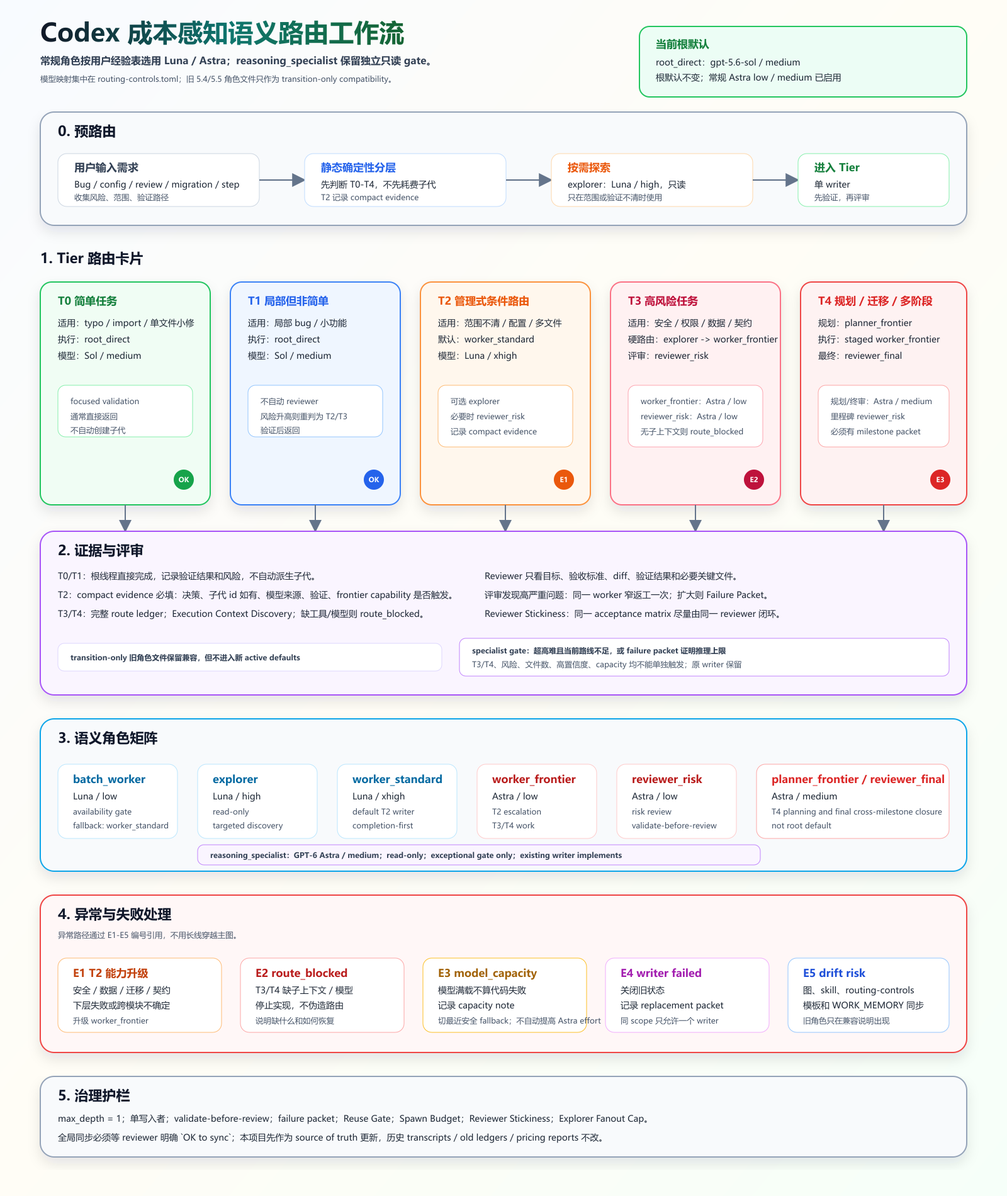
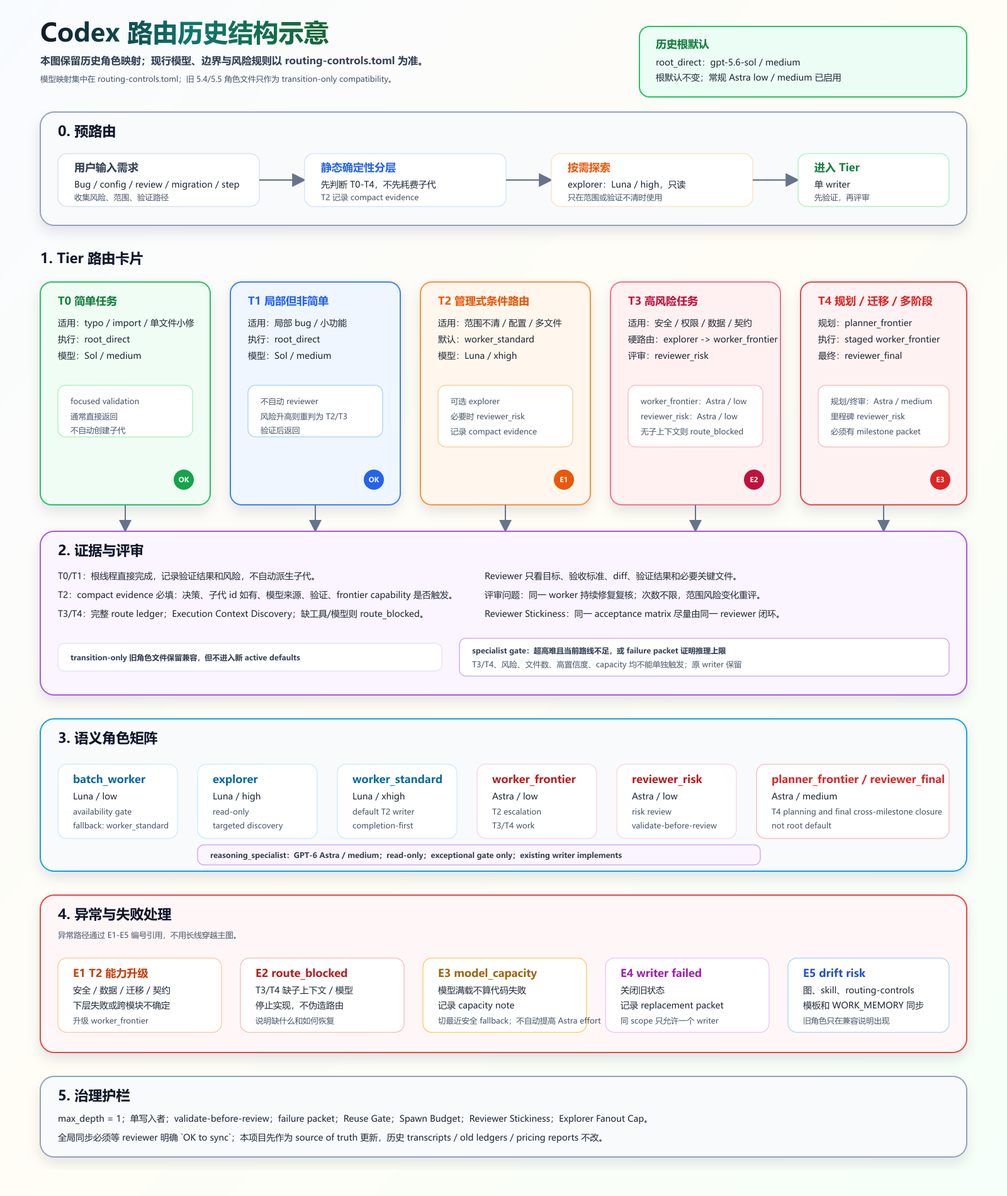
Remove count-based routing stop limits

Changed region(s): [[0.0312, 0.0, 0.4062, 0.0621]]

diff --git a/codex-home/skills/codex-workflow/scripts/test_select_route.py b/codex-home/skills/codex-workflow/scripts/test_select_route.py
@@ -1,4 +1,4 @@
-"""Regression scenarios for capability, effort, governance and stop boundaries."""
+"""Regression scenarios for capability, effort, governance and continuation boundaries."""
 import unittest
 from select_route import load_policy, select, check_policy, DEFAULT_CONTROLS
 
@@ -31,11 +31,11 @@ class RouteScenarios(unittest.TestCase):
             ("ordinary_defect", {"tier": "T2", "failure": "validation_defect", "previous_profile": "sol_medium", "evidence": "Known off-by-one in index"}, "sol_medium", "T2", "repair_first"),
             ("missing_failure_evidence", {"tier": "T2", "failure": "effort_limit", "previous_profile": "sol_medium"}, "sol_low", "T2", "needs_evidence"),
             ("missing_actual_profile", {"tier": "T2", "failure": "effort_limit", "evidence": "Missed constraint"}, "sol_low", "T2", "needs_evidence"),
-            ("transition_budget", {"tier": "T2", "failure": "effort_limit", "previous_profile": "sol_high", "evidence": "Named insufficiency", "transitions_used": 2}, "sol_high", "T2", "budget_exhausted"),
-            ("writer_budget", {"tier": "T2", "writer_attempts_used": 3}, "sol_low", "T2", "budget_exhausted"),
-            ("astra_stop", {"tier": "T3", "failure": "capability_limit", "previous_profile": "astra_medium", "evidence": "Assigned model cannot resolve coupled proof"}, "astra_medium", "T3", "stop"),
+            ("transition_past_old_limit", {"tier": "T2", "failure": "effort_limit", "previous_profile": "sol_high", "evidence": "Named insufficiency", "transitions_used": 2}, "astra_medium", "T2", "advice_only"),
+            ("writer_past_old_limit", {"tier": "T2", "writer_attempts_used": 3}, "sol_low", "T2", "advice_only"),
+            ("astra_stop", {"tier": "T3", "failure": "capability_limit", "previous_profile": "astra_medium", "evidence": "Assigned model cannot resolve coupled proof"}, "astra_medium", "T3", "replan_required"),
             ("astra_effort", {"tier": "T3", "failure": "effort_limit", "previous_profile": "astra_medium", "evidence": "Medium missed a demonstrated constraint"}, "astra_high", "T3", "advice_only"),
-            ("batch_scope", {"role": "batch", "trivial_execution": True, "execution_evidence": "Exact substitutions supplied", "failure": "capability_limit", "previous_profile": "luna_medium", "evidence": "Work is no longer mechanical"}, "luna_medium", "T1", "stop"),
+            ("batch_scope", {"role": "batch", "trivial_execution": True, "execution_evidence": "Exact substitutions supplied", "failure": "capability_limit", "previous_profile": "luna_medium", "evidence": "Work is no longer mechanical"}, "luna_medium", "T1", "replan_required"),
         ]
         for name, task, profile, tier, status in cases:
             with self.subTest(name=name):
@@ -64,7 +64,7 @@ class RouteScenarios(unittest.TestCase):
                             self.assertEqual(result["profile"], "astra_high")
                 stopped = select({"tier": tier, "role": role, "failure": "effort_limit",
                                   "previous_profile": "astra_high", "evidence": "High missed proof"}, self.policy)
-                self.assertEqual(stopped["status"], "stop")
+                self.assertEqual(stopped["status"], "replan_required")
 
     def test_luna_requires_explicit_deterministic_execution_evidence(self):
         eligible = {"tier": "T0", "trivial_execution": True,
@@ -100,11 +100,37 @@ class RouteScenarios(unittest.TestCase):
             with self.subTest(task=task), self.assertRaises(ValueError):
                 select(task, self.policy)
 
-    def test_confidence_and_budget_accounting(self):
+    def test_confidence_and_observational_counts(self):
         result = select({"tier": "T2", "high_confidence": True, "transitions_used": 1, "writer_attempts_used": 2}, self.policy)
         self.assertTrue(result["review_required"])
-        self.assertEqual(result["remaining_automatic_transitions"], 1)
-        self.assertEqual(result["remaining_writer_attempts"], 1)
+        self.assertIsNone(result["remaining_automatic_transitions"])
+        self.assertIsNone(result["remaining_writer_attempts"])
+        self.assertEqual(result["attempt_limit_policy"], "unlimited_counts_evidence_required")
+        self.assertEqual((result["transitions_used"], result["writer_attempts_used"]), (1, 2))
+
+
+    def test_counts_never_block_completion_or_bypass_risk_gates(self):
+        scenarios = [
+            ({"tier": "T2", "complexity": "integrated"}, "sol_medium", "advice_only"),
+            ({"failure": "effort_limit", "previous_profile": "sol_high", "evidence": "Named missed derivation"}, "astra_medium", "advice_only"),
+            ({"failure": "validation_defect", "previous_profile": "sol_medium", "evidence": "Known wrong index"}, "sol_medium", "repair_first"),
+            ({"failure": "effort_limit", "previous_profile": "sol_medium"}, "sol_low", "needs_evidence"),
+            ({"critical_risk": True, "failure": "environment", "previous_profile": "sol_low", "evidence": "Tool not launched"}, "astra_low", "repair_first"),
+            ({"tier": "T3", "failure": "effort_limit", "previous_profile": "astra_high", "evidence": "High missed proof"}, "astra_high", "replan_required"),
+            ({"tier": "T3", "failure": "capability_limit", "previous_profile": "astra_medium", "evidence": "Assigned model could not solve proof"}, "astra_medium", "replan_required"),
+            ({"role": "planner"}, "astra_high", "advice_only"),
+            ({"role": "final"}, "astra_high", "advice_only"),
+        ]
+        for count in (3, 4, 100, 10**30):
+            for task, profile, status in scenarios:
+                with self.subTest(count=count, task=task):
+                    result = select({**task, "writer_attempts_used": count, "transitions_used": count}, self.policy)
+                    self.assertEqual((result["profile"], result["status"]), (profile, status))
+                    self.assertIsNone(result["remaining_writer_attempts"])
+                    self.assertIsNone(result["remaining_automatic_transitions"])
+                    self.assertEqual(result["writer_attempts_used"], count)
+                    self.assertFalse(result["route_executed"])
+                    self.assertEqual(result["specialist_gate"], "not_evaluated_not_authorized")
 
 
 if __name__ == "__main__":

diff --git a/codex-home/skills/codex-workflow/scripts/select_route.py b/codex-home/skills/codex-workflow/scripts/select_route.py
@@ -115,21 +115,19 @@ def select(task, policy):
             reasons.append("No reasoning escalation for context, instruction, tool, environment or a diagnosed ordinary defect")
         elif previous is None:
             status, action = "needs_evidence", "record_actual_previous_profile"
-        elif task.get("transitions_used", 0) >= adaptation["max_automatic_transitions"] or (role == "worker" and task.get("writer_attempts_used", 0) >= adaptation["max_total_writer_attempts_per_acceptance"]):
-            profile = previous
-            status, action = "budget_exhausted", "preserve_progress_and_return_failure_packet"
         elif role == "batch":
             profile = previous
-            status, action = "stop", "reclassify_batch_scope_before_nonmechanical_work"
+            status, action = "replan_required", "reclassify_batch_scope_before_nonmechanical_work"
         else:
             if failure == "effort_limit":
-                next_profile = adaptation.get(previous + "_effort_next", "stop_and_handoff")
+                next_profile = adaptation.get(previous + "_effort_next", "diagnose_and_replan")
             else:
                 family = previous.split("_", 1)[0]
                 next_profile = adaptation[family + "_capability_next"]
             if next_profile not in profiles:
                 profile = previous
-                status, action = "stop", next_profile
+                status, action = "replan_required", next_profile
+                reasons.append("Diagnose and change the approach before retrying; preserve model/effort floors and specialist gate")
             else:
                 profile = next_profile
                 reasons.append(f"Evidence-backed {failure}: {previous} -> {profile}")
@@ -161,8 +159,6 @@ def select(task, policy):
     chosen = profiles[profile]
     registered = policy["model_roles"].get(semantic, policy["root_default"])
     matches = all(chosen[key] == registered[key] for key in ("model", "model_reasoning_effort"))
-    if role in ("worker", "batch") and task.get("writer_attempts_used", 0) >= adaptation["max_total_writer_attempts_per_acceptance"] and status not in ("needs_evidence", "budget_exhausted", "stop"):
-        status, action = "budget_exhausted", "preserve_progress_and_return_failure_packet"
     if task.get("high_confidence", False):
         reasons.append("High confidence strengthens acceptance/validation/review; no automatic model promotion")
     if not reasons:
@@ -174,8 +170,11 @@ def select(task, policy):
             "boundary_roles": ["planner_frontier", "reviewer_final"],
             "luna_eligible": bool(luna_eligible),
             "review_required": role in ("worker", "batch"),
-            "remaining_automatic_transitions": max(0, adaptation["max_automatic_transitions"] - task.get("transitions_used", 0)),
-            "remaining_writer_attempts": max(0, adaptation["max_total_writer_attempts_per_acceptance"] - task.get("writer_attempts_used", 0)),
+            "remaining_automatic_transitions": None,
+            "remaining_writer_attempts": None,
+            "attempt_limit_policy": "unlimited_counts_evidence_required",
+            "transitions_used": task.get("transitions_used", 0),
+            "writer_attempts_used": task.get("writer_attempts_used", 0),
             "specialist_gate": "not_evaluated_not_authorized",
             "invocation": "actual_root_profile_check" if semantic == "root_direct" else ("registered_role_after_actual_mapping_check" if matches else "default_child_explicit_model_effort_and_full_role_instructions"),
             "availability": "unverified", "route_executed": False}

diff --git a/codex-home/skills/codex-workflow/references/two-axis-routing.md b/codex-home/skills/codex-workflow/references/two-axis-routing.md
@@ -1,6 +1,6 @@
-# Model and effort selection — 2026-10-07
+# Model and effort selection — 2026-10-15
 
-Authority: routing-controls.toml, policy 2026-10-07-sol-default-astra-high-boundaries-v2.
+Authority: routing-controls.toml, policy 2026-10-15-completion-without-attempt-caps-v3.
 Policy heuristics are not measured quality guarantees. Tier, model and effort remain separate.
 
 ## Resolve routing configuration paths first
@@ -29,9 +29,9 @@ Planner, writer and final reviewer stay distinct; root may implement T0/T1. Defa
 
 Context, instructions, tool, environment, capacity and diagnosed ordinary defects require cause repair or recorded safe fallback without automatic reasoning escalation. No automatic Terra fallback; retained Terra files are historical inactive profiles. Luna outage/unsuitability goes to Sol low or above. Boundary capacity retains Astra high or stops.
 
-Effort transitions: Sol low → medium → high → Astra medium; Astra implementation low → medium → high → stop, with evidence. Luna reasoning insufficiency means its trivial lane is exceeded: reclassify to Sol medium. Capability transitions: Luna → Sol medium; Sol → Astra medium; Astra → stop or evaluate separate specialist gate. Final boundary floor is reapplied after every initial override, failure, repair, previous-profile restoration or stop path; boundary Astra high effort failure stops with handoff rather than automatic xhigh.
+Effort transitions: Sol low → medium → high → Astra medium; Astra implementation low → medium → high → diagnose and replan, with evidence. Luna reasoning insufficiency means its trivial lane is exceeded: reclassify to Sol medium. Capability transitions: Luna → Sol medium; Sol → Astra medium; Astra → diagnose/replan or evaluate separate specialist gate. Final boundary floor is reapplied after every initial override, failure, repair, previous-profile restoration or stop path; boundary Astra high effort failure requires diagnosis and replan while retaining the high floor; no automatic xhigh.
 
-Allow at most two automatic transitions and three total writer attempts per acceptance matrix, including ordinary repairs. One initial attempt per profile and at most one narrow reviewer rework pass. Preserve single writer and record replacement evidence. Budget exhaustion stops new work with a failure packet. xhigh/max/ultra requires explicit request and runtime support. Specialist remains bounded, read-only and separately gated; boundary high never opens that gate.
+Writer attempts, rework, review rounds and automatic profile transitions have no numeric cap. Preserve single writer and record replacement evidence. Counts are observational; continue evidence-backed repair and independent review until acceptance. Persistent failure requires diagnosis and a changed approach, not blind repetition. Re-score scope/risk changes. At the automatic ceiling, replan; only a real blocker (missing required capability/isolation or no feasible authorized approach) stops work with a packet. xhigh/max/ultra requires explicit request and runtime support. Specialist remains bounded, read-only and separately gated; boundary high never opens that gate.
 
 ## Read-only selector
 
@@ -48,9 +48,9 @@ scripts/select_route.py reads evidence-backed JSON and returns advice only; it d
 | evidence | Named reasoning/capability evidence or failure diagnosis |
 | failure | none/context/instructions/tool/environment/capacity/validation_defect/effort_limit/capability_limit |
 | previous_profile | Actual profile; only with failure |
-| transitions_used/writer_attempts_used | Nonnegative counts across the acceptance matrix |
+| transitions_used/writer_attempts_used | Nonnegative observational counts across the acceptance matrix; no limit |
 
-Unknown fields, string booleans, invalid tiers and extreme-effort requests are rejected. Stop/needs_evidence/budget_exhausted prohibit dispatch; repair_first requires repair/fallback first. Advice always includes route_executed=false, availability=unverified and specialist_gate=not_evaluated_not_authorized.
+Unknown fields, string booleans, invalid tiers and extreme-effort requests are rejected. needs_evidence prohibits dispatch until the packet is complete; repair_first requires repair/fallback first; replan_required requires diagnosis and a changed feasible approach before retrying, without automatic extreme effort or an ungated specialist. Counts never emit budget_exhausted. remaining_automatic_transitions and remaining_writer_attempts are null with attempt_limit_policy=unlimited_counts_evidence_required, not zero remaining. Advice always includes route_executed=false, availability=unverified and specialist_gate=not_evaluated_not_authorized.
 
 ```powershell
 $routePython = Join-Path $env:USERPROFILE '.cache/codex-runtimes/codex-primary-runtime/dependencies/python/python.exe'

diff --git a/codex-home/skills/codex-workflow/SKILL.md b/codex-home/skills/codex-workflow/SKILL.md
@@ -41,10 +41,10 @@ Read `references/two-axis-routing.md` when model/effort selection or adaptation 
 - Choose workflow tier by consequences and governance, model by semantic capability, and effort by reasoning density. File count and a request for confidence alone do not force a model upgrade.
 - Use Sol medium for integrated T2 work; Sol high for named dense reasoning or demonstrated medium reasoning insufficiency. Use Astra low for frontier defaults and medium for named dense/coupled reasoning; Astra high is mandatory for initial planning/final review; implementation or specialist high requires documented medium inadequacy.
 - Diagnose failures first. Repair missing context, instructions, tools, environment and known ordinary defects; capacity follows availability fallback. None of these alone justifies increasing effort or invoking a specialist.
-- Effort limit: one next-effort attempt with evidence. Capability limit: direct model promotion with evidence. Sol medium -> high -> Astra medium is an effort path; Luna -> Sol medium -> Astra medium is a capability path, not a mandatory ladder.
-- Permit at most two automatic transitions and three total writer attempts per acceptance matrix, including ordinary repairs. One initial attempt per selected profile plus the separately bounded narrow rework pass; stop with a packet when the applicable budget is exhausted.
+- Effort limit: select the next justified effort with evidence. Capability limit: direct model promotion with evidence. Sol medium -> high -> Astra medium is an effort path; Luna -> Sol medium -> Astra medium is a capability path, not a mandatory ladder.
+- Writer attempts, rework, review rounds and automatic profile transitions have no numeric completion cap. Keep counts as observations and continue evidence-backed repairs and independent review until acceptance. Diagnose persistent failure and change the approach instead of blindly repeating; re-score changes in scope or risk. At the automatic effort/capability ceiling, replan without unauthorized extreme effort or an ungated specialist. A real blocker (missing required capability/isolation or no feasible authorized approach) still requires a failure/continuation packet.
 - Keep independent roles, single writer, validation-before-review and specialist gate intact. A non-default profile must use an explicit mapped default child if the registered role does not match; copy full role instructions and inspect actual isolation. Do not pretend the root model switched.
-- Record actual profile, failure diagnosis, transition reason, budget, acceptance and observed usage. After five comparable accepted runs without substantive rework, consider one lower effort within the Sol low and boundary Astra high floors on a future independent task with identical checks; restore on regression. No automatic global rewrite.
+- Record actual profile, failure diagnosis, transition reason, observed attempt counts, acceptance and observed usage. After five comparable accepted runs without substantive rework, consider one lower effort within the Sol low and boundary Astra high floors on a future independent task with identical checks; restore on regression. No automatic global rewrite.
 
 ## Active Semantic Roles
 

diff --git a/codex-home/skills/codex-workflow/CODEX_WORKFLOW.md b/codex-home/skills/codex-workflow/CODEX_WORKFLOW.md
@@ -44,10 +44,10 @@ Read `references/two-axis-routing.md` when model/effort selection or adaptation 
 - Choose workflow tier by consequences and governance, model by semantic capability, and effort by reasoning density. File count and a request for confidence alone do not force a model upgrade.
 - Use Sol medium for integrated T2 work; Sol high for named dense reasoning or demonstrated medium reasoning insufficiency. Use Astra low for frontier defaults and medium for named dense/coupled reasoning; Astra high is mandatory for initial planning/final review; implementation or specialist high requires documented medium inadequacy.
 - Diagnose failures first. Repair missing context, instructions, tools, environment and known ordinary defects; capacity follows availability fallback. None of these alone justifies increasing effort or invoking a specialist.
-- Effort limit: one next-effort attempt with evidence. Capability limit: direct model promotion with evidence. Sol medium -> high -> Astra medium is an effort path; Luna -> Sol medium -> Astra medium is a capability path, not a mandatory ladder.
-- Permit at most two automatic transitions and three total writer attempts per acceptance matrix, including ordinary repairs. One initial attempt per selected profile plus the separately bounded narrow rework pass; stop with a packet when the applicable budget is exhausted.
+- Effort limit: select the next justified effort with evidence. Capability limit: direct model promotion with evidence. Sol medium -> high -> Astra medium is an effort path; Luna -> Sol medium -> Astra medium is a capability path, not a mandatory ladder.
+- Writer attempts, rework, review rounds and automatic profile transitions have no numeric completion cap. Keep counts as observations and continue evidence-backed repairs and independent review until acceptance. Diagnose persistent failure and change the approach instead of blindly repeating; re-score changes in scope or risk. At the automatic effort/capability ceiling, replan without unauthorized extreme effort or an ungated specialist. A real blocker (missing required capability/isolation or no feasible authorized approach) still requires a failure/continuation packet.
 - Keep independent roles, single writer, validation-before-review and specialist gate intact. A non-default profile must use an explicit mapped default child if the registered role does not match; copy full role instructions and inspect actual isolation. Do not pretend the root model switched.
-- Record actual profile, failure diagnosis, transition reason, budget, acceptance and observed usage. After five comparable accepted runs without substantive rework, consider one lower effort within the Sol low and boundary Astra high floors on a future independent task with identical checks; restore on regression. No automatic global rewrite.
+- Record actual profile, failure diagnosis, transition reason, observed attempt counts, acceptance and observed usage. After five comparable accepted runs without substantive rework, consider one lower effort within the Sol low and boundary Astra high floors on a future independent task with identical checks; restore on regression. No automatic global rewrite.
 
 ## Semantic Role Matrix
 

diff --git a/AGENTS.md b/AGENTS.md
@@ -6,4 +6,4 @@
 4. Do not store secrets, tokens, account credentials, private keys, or machine-local auth material in this project. Config templates may include paths, model names, roles, and workflow rules only.
 5. When changing routing behavior, update both the runnable skill/template files and the work memory that explains why the rule exists. This prevents global Codex behavior from drifting away from the project record.
 6. Voice reply behavior is owned by the separate voice automation project (machine-local location is recorded in ignored `WORK_MEMORY.md`). This project may reference that history, but it should not become the place where TTS helper scripts or voice profiles are maintained.
-7. Follow routing-controls.toml: default GPT-6.1 Sol low or above; Luna medium only for evidenced trivial deterministic execution without substantive reasoning. Every T0–T4 task requires independent initial Astra high planning and final Astra high review, without a trivial exception. Boundaries do not force T4. Preserve single writer, validation first, adaptation budgets, implementation high evidence and the separate reasoning_specialist gate.
+7. Follow routing-controls.toml: default GPT-6.1 Sol low or above; Luna medium only for evidenced trivial deterministic execution without substantive reasoning. Every T0–T4 task requires independent initial Astra high planning and final Astra high review, without a trivial exception. Boundaries do not force T4. Preserve single writer, validation first, evidence-backed continuation without numeric attempt/rework/review caps, implementation high evidence and the separate reasoning_specialist gate.

diff --git a/codex-home/AGENTS.md b/codex-home/AGENTS.md
@@ -6,7 +6,7 @@
 - 模型按语义能力与后果选择；推理档位按密集约束和不足证据选择。默认 GPT-6.1 Sol/low 及以上；Luna 仅 medium，且须有特别简单、规则完全确定、无需实质思考的执行证据。初始规划与最终审核固定 Astra/high 起；实施和专家的 Astra/high 仍需 medium 不足证据。
 - 使用 `[execution_profiles]` 选择实际配置，`agents/*.toml` 是角色默认值；非默认档位需显式指定并核对运行时绑定，不能声称主聊天模型自动切换。
 - 失败先区分资料、指令、工具、环境、容量、普通缺陷、推理投入不足与模型能力不足。只有有证据的后两类触发相应自动调整；专家仍有单独门槛。
-- 同一验收范围最多两次自动配置转换、三次写入尝试；普通返工也计入总数，超过预算保留成果并交接。
+- 写入尝试、返工、审查轮次及自动配置转换不设次数上限；计数仅用于观测，持续依据失败证据修复和复核直到验收完成。禁止盲目重复，范围或风险变化须重评；只有真实阻塞才保留成果并交接。
 - 高风险路由不得悄悄降低模型能力或省略独立审查；必要能力不可用则报告 route_blocked。
 - 全局根模型默认来自 config.toml，但记录当前会话实际模型；自定义路由键只保留在 routing-controls.toml。
 - 路由选择器是只读建议工具；由主代理检查模型可用性和权限后派发代理，记录真实执行证据。

diff --git a/模型档位与路由方法说明.md b/模型档位与路由方法说明.md
@@ -43,7 +43,7 @@
 
 资料、指令、工具、环境、容量及已定位普通缺陷先修复原因，不自动加大推理投入。Sol 推理不足按证据 low → medium → high → Astra medium；能力不足可直接换模型，无需逐档尝试。Luna 需要思考时应重新分类为 Sol 任务。
 
-同一验收范围最多两次自动转换、三次写入尝试，普通返工也计入预算。达到上限保留成果和失败交接包。规划与最终审核在所有初始选择、失败、修复、容量和停止路径之后都保持 Astra/high 下限。Astra/high 不足时停止交接，不自动使用 xhigh。
+写入尝试、返工、审查轮次和自动转换不设次数上限，计数仅用于观测。持续按失败证据修复并复核直到验收完成；禁止盲目重复，范围或风险变化须重评，真实阻塞仍保留成果和失败交接包。规划与最终审核在所有初始选择、失败、修复、容量和停止路径之后都保持 Astra/high 下限。Astra/high 不足时诊断并重规划，不自动使用 xhigh；必需能力缺失或无可行的已授权方案才报告阻塞。
 
 五次可比成功后可在后续独立任务尝试低一档，但不能低于 Sol/low 或规划、最终审核 Astra/high，也不能绕过 Luna 条件。模型更强不等于测试已通过；最终审核必须对照真实修改、验收条件和验证证据。
 

diff --git a/codex-home/skills/codex-workflow/references/model-selection-evidence-2026-09.md b/codex-home/skills/codex-workflow/references/model-selection-evidence-2026-09.md
@@ -65,4 +65,4 @@ These are public direct-API rates, not Codex credits. Cached input may be much c
 
 ## Two-axis policy adoption (2026-10-03)
 
-Use `two-axis-routing.md` and routing-controls.toml for the active model/effort transition and budget policy. Sol medium is the integrated-work baseline; high requires named dense reasoning or a demonstrated effort limit. Astra low remains a frontier baseline, with medium selected for evidenced dense/coupled reasoning. Do not use historical scores above to claim Sol high beats Astra low or that equal effort labels imply equal compute. The policy's two-transition, three-writer-attempt and five-observation thresholds are local heuristics, not published benchmark results.
+Use `two-axis-routing.md` and routing-controls.toml for the active model/effort transition and evidence-backed continuation policy. Sol medium is the integrated-work baseline; high requires named dense reasoning or a demonstrated effort limit. Astra low remains a frontier baseline, with medium selected for evidenced dense/coupled reasoning. Do not use historical scores above to claim Sol high beats Astra low or that equal effort labels imply equal compute. Writer, rework, review and transition counts are now observational without a completion cap. The five-observation feedback threshold is a local heuristic, not a published benchmark result.

diff --git a/codex-home/templates/route-ledger.md b/codex-home/templates/route-ledger.md
@@ -173,7 +173,7 @@ Only reasoning_specialist requires this gate; approved routine Astra low/medium 
 - reviewer stickiness applied: yes/no
 - reviewer role: reviewer_risk / reviewer_final / transition-only legacy / none
 - new reviewer spawn_reason:
-- max reviewers per acceptance_matrix_id without expansion: 1
+- max reviewers per acceptance_matrix_id without expansion: 2
 - reviewer findings:
 - severity:
 - rework decision:
@@ -226,9 +226,11 @@ Only reasoning_specialist requires this gate; approved routine Astra low/medium 
 - expected vs registered actual mapping / explicit override:
 - failure class / identified cause / failure packet:
 - prior profile -> selected profile / transition reason:
-- automatic transitions used (maximum 2):
-- total writer attempts used for this acceptance matrix (maximum 3):
-- same-profile attempt / reviewer rework budgets:
+- automatic transitions observed (unlimited; evidence required):
+- total writer attempts observed for this acceptance matrix (unlimited):
+- same-profile attempts / rework / review rounds observed (unlimited):
+- persistent-failure diagnosis / changed approach / scope-risk re-score:
+- real blocking condition, if any:
 - selector status / runtime availability evidence:
 - advice distinguished from actual dispatch:
 

diff --git a/README.md b/README.md
@@ -14,7 +14,7 @@
 
 实施/专家 Astra high 仍需 medium 不足证据；独立专家门槛不变。缺少必需 Astra/high 或隔离能力则 route_blocked。七个自动模型/档位组合为 Luna medium、Sol low/medium/high、Astra low/medium/high；历史 Terra 文件不再自动回退。
 
-失败先分类和修复原因，每个验收范围最多两次自动转换、三次写入尝试。后续调低档位不可低于 Sol/low 和边界 Astra/high，也不可绕过 Luna 执行资格。xhigh/max/ultra 需要明确要求和运行时支持。这些规则是本地策略，质量收益仍需真实任务观察，公开 API 价格不代表订阅消耗。
+失败先分类和修复原因，写入尝试、返工、审查轮次和自动转换不设次数上限；计数仅用于观测，依据证据持续推进直到验收完成。反复失败须诊断并调整方案，范围或风险变化须重评；真实阻塞仍须记录并交接。后续调低档位不可低于 Sol/low 和边界 Astra/high，也不可绕过 Luna 执行资格。xhigh/max/ultra 需要明确要求和运行时支持。这些规则是本地策略，质量收益仍需真实任务观察，公开 API 价格不代表订阅消耗。
 
 ## 文档与文件
 

diff --git a/路由方案实施记录.md b/路由方案实施记录.md
@@ -24,7 +24,7 @@
 
 文件数量和“要求高置信度”不再单独触发模型升级。高置信度要求更充分的验收、验证和独立审查。
 
-同一验收范围最多两次自动配置转换、三次写入尝试；每个配置一次初始尝试，审查后的有限返工也计入总数。Astra high 要求 medium 实际推理不足的证据；xhigh/max/ultra 仍要求用户明确要求和运行时支持。
+2026-10-15 已替代原次数预算：写入尝试、返工、审查轮次和自动配置转换均不设次数上限，计数仅用于观测；持续按证据修复、验证和独立复核直到完成。反复失败须调整方案，范围或风险变化须重评，真实阻塞才交接。Astra high 要求 medium 实际推理不足的证据；xhigh/max/ultra 仍要求用户明确要求和运行时支持。
 
 五次可比任务通过且没有实质返工后，可在后续独立任务试低一档；验收退化时恢复。这些次数是初始策略阈值，尚不是模型性能实测结论。
 
